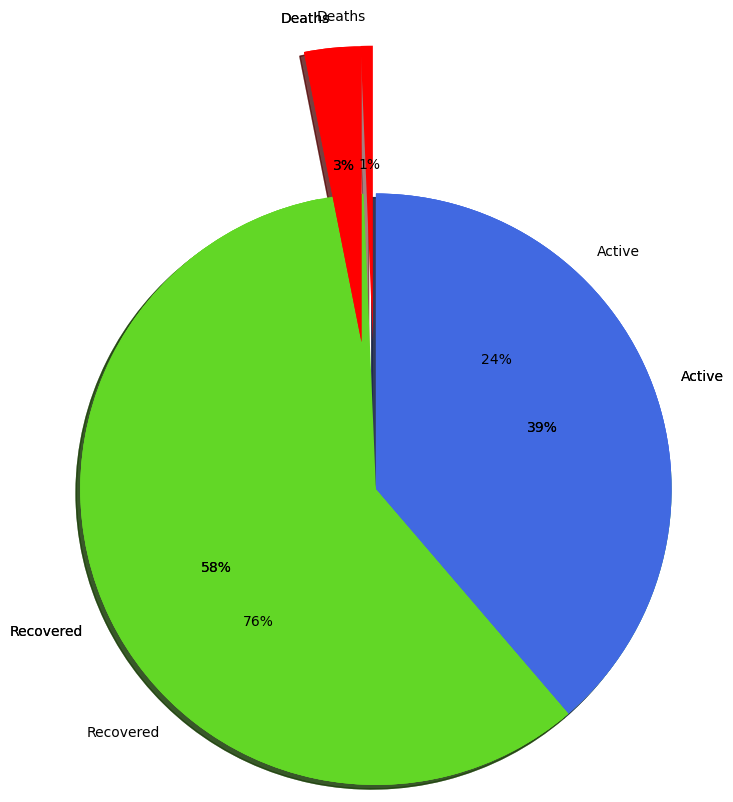
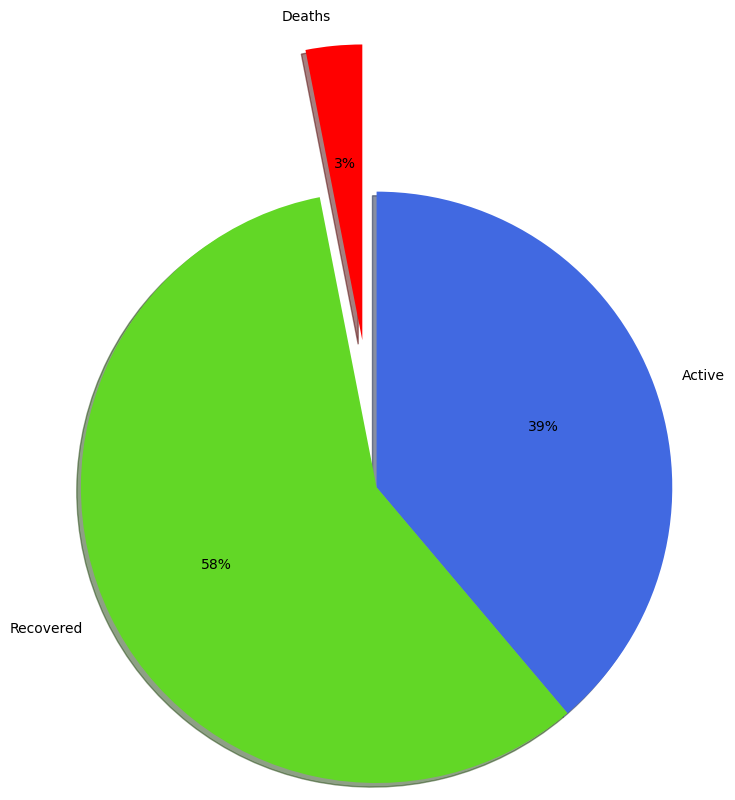
Add files via upload

diff --git a/web/script.js b/web/script.js
@@ -1,14 +1,8 @@
 async function check(){
     const inputvalue = document.getElementById("input").value
     const out = document.getElementById("output")
-    const button = document.getElementById("button")
     const chart = document.getElementById("charts")
     const g = await eel.get(inputvalue)();
     out.innerText = g
     chart.innerHTML = "<img src ='./img.png' />"
-    button.innerHTML = "<button type = 'button'  onClick = goBack() >Clear</button>"
-}
-
-function goBack(){
-    window.location.replace('index.html');
 }

diff --git a/web/index.html b/web/index.html
@@ -16,7 +16,6 @@
     <div class="footer">
         <div id="output"></div>
         <div id = "charts"></div>
-        <div id= "button"></div>
     </div>
 </body>
 </html>

diff --git a/web/style.css b/web/style.css
@@ -61,7 +61,7 @@ img{
     align-items: center;
     justify-content: center;
     text-align: center;
-    width: 320px;
+    width: 300px;
     margin-left: 10%;
 }
 

diff --git a/Scrapping.py b/Scrapping.py
@@ -1,15 +1,20 @@
+#Country Value get from source file
 def count(Country):
+
+    #Import Required Modules to Use..
     import matplotlib.pyplot as plt
     import requests
     import json
     import os
     from pathlib import Path
-
+    
+    #Set This Path As OS Path
     my_file = Path("./pythonjseel/web/img.png")
 
-    if os.path.exists(my_file):
+    if os.path.exists(my_file):  #Check if the file exists and remove it
         os.remove(my_file)
 
+    #API Section
     url = "https://corona-virus-world-and-india-data.p.rapidapi.com/api"
 
     headers = {
@@ -19,14 +24,18 @@ def count(Country):
 
     response = requests.request("GET", url, headers=headers)
 
+    #Getting Value Of Global Status
     world_data = json.loads(response.text)["world_total"]
 
+    #Getting Value Of Every Country Status
     whole_data = json.loads(response.text)["countries_stat"]
 
     country_data = dict
 
+    #Check If Input Country is empty string or not....
     if Country == "" :
         
+        #Extract individual data from API
         Total_Cases = str(world_data["total_cases"])
         Total_Deaths = str(world_data["total_deaths"])
         Total_Recovered = str(world_data["total_recovered"])
@@ -35,17 +44,24 @@ def count(Country):
         Serious_Critical = str(world_data["serious_critical"])
         # Total_Active = int(Total_Cases.replace(",","")) - int(Total_Deaths.replace(",","")) - int(Total_Recovered.replace(",",""))
 
+        #Convert the string data to an integer  to use the data
         plot_Cases = Total_Cases.replace(",","")
         plot_Recovered = int(Total_Recovered.replace(",",""))
         plot_Deaths = int(Total_Deaths.replace(",",""))
 
+        #List those data into a variable
         data = [plot_Cases,plot_Recovered,plot_Deaths]
         label=['Cases,''Recovered','Deaths']
         color = ['royal blue,'"#62D726","red"]
         
+        #Pie Plot the Data
         plt.pie(x=data,startangle=90,labels=label,radius=2,counterclock=False,colors=color,shadow = True)
 
+        #Save the Plot
         plt.savefig(r"C:\\Users\\Afranzio\\Python\\pythonjseel\\web\\ img.png" ,transparent=True,bbox_inches='tight')
+
+        #Clear the previous plot
+        plt.clf()
         
         return("Starts_Over = " + "Global Status",
             "\nTotal_Cases = " + Total_Cases,   
@@ -59,10 +75,13 @@ def count(Country):
         
         
     else:
+
+        #Get the exact country data from all country data
         for data in whole_data:
             if data["country_name"] == Country :
                 country_data = data
 
+        #Extract individual data from API
         Country_Name = country_data["country_name"]
         Total_Cases = str(country_data["cases"])
         Total_Active = str(country_data["active_cases"])
@@ -72,17 +91,24 @@ def count(Country):
         New_Deaths = str(country_data["new_deaths"])
         Total_test = str(country_data["total_tests"])
 
+        #Convert the string data to an integer  to use the data
         plot_Active = int(Total_Active.replace(",",""))
         plot_Recovered = int(Total_Recovered.replace(",",""))
         plot_Deaths = int(Total_Deaths.replace(",",""))
 
+        #List those data into a variable
         data = [plot_Active,plot_Recovered,plot_Deaths]
         label=['Active','Recovered','Deaths']
         color = ["royalblue","#62D726","red"]
-        
+
+        #Plot the Data
         plt.pie(x=data,startangle=90,labels=label,radius=2,explode=[0,0,1],counterclock=False,colors=color,shadow = True,autopct='%1.f%%')
 
+        #Save the plot
         plt.savefig(r"C:\\Users\\Afranzio\\Python\\pythonjseel\\web\\img.png" ,transparent=True, bbox_inches='tight')
+
+        #Clear the plot.
+        plt.clf()
 
         return("Country = " + Country_Name,
             "\nTotal_Cases = " + Total_Cases,

diff --git a/source.py b/source.py
@@ -1,6 +1,7 @@
 from Scrapping import  count
 import eel
 
+##Select The Folder of FrontEnd File
 eel.init("web")
 
 @eel.expose
@@ -10,13 +11,15 @@ def get(inputs):
     #customize the Inputs
 
     if len(inputs)<=3:
-        inputs = inputs.upper() # for countries like USA,UAE
+        inputs = inputs.upper()  #For countries like USA,UAE
         
     else:
-        inputs = inputs.title() #Others in Title
+        inputs = inputs.title()  #Others in Title
 
     Country = inputs
     
+    ##Pass Country name to the defined function!!
+
     return (count(Country))
 
-eel.start('index.html',size = (1024,500))
+eel.start('index.html',size = (1024,500),cmdline_args=['--start-fullscreen'])
